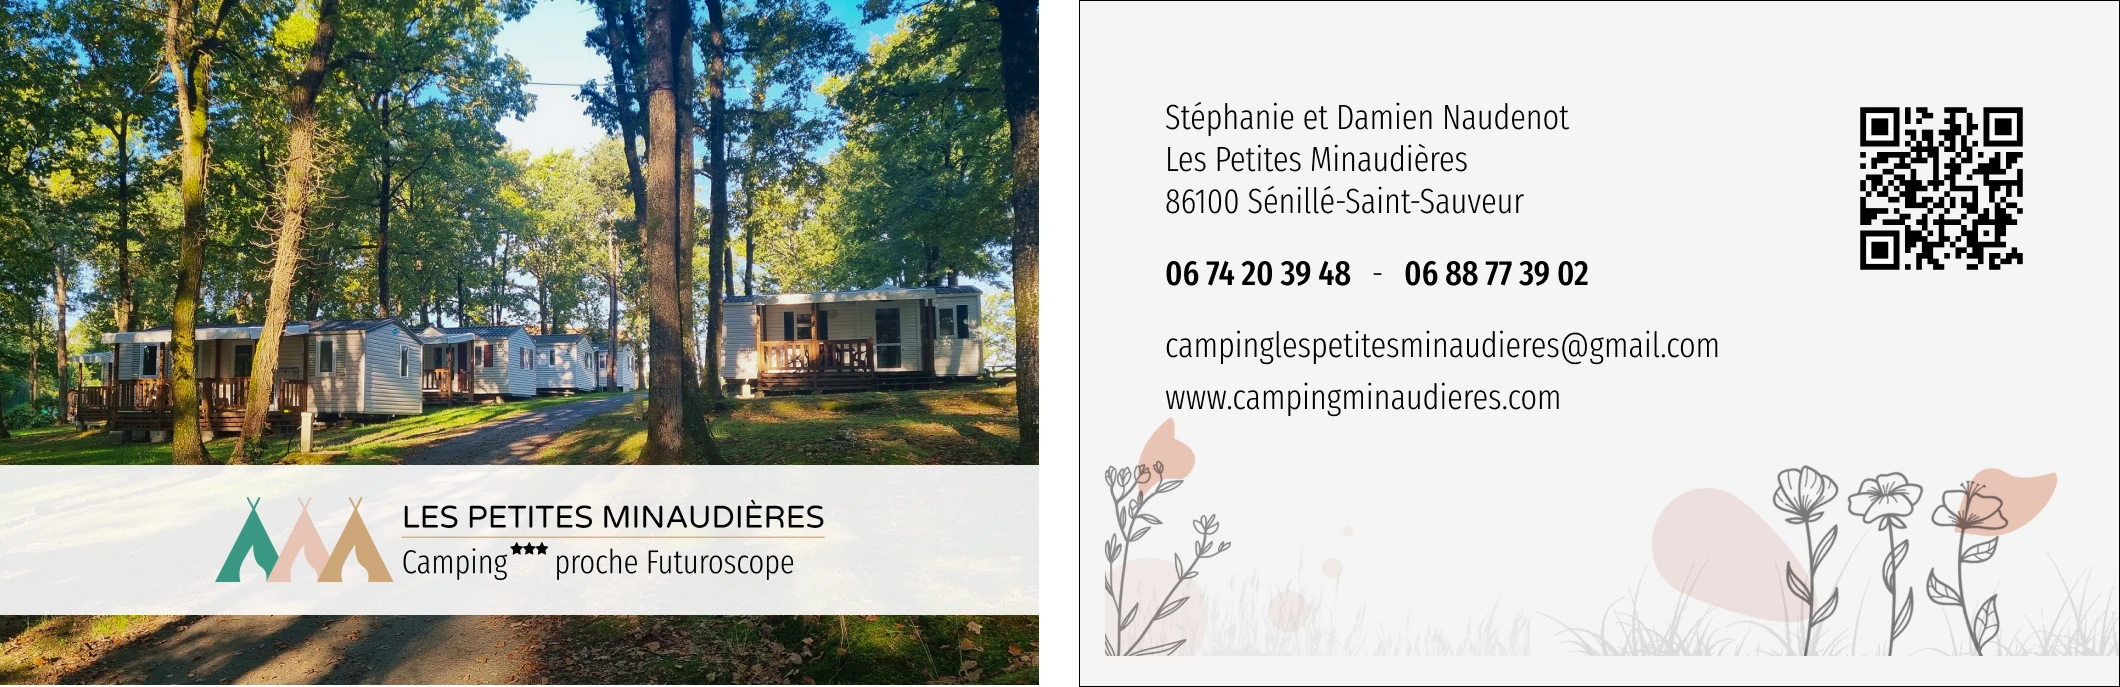
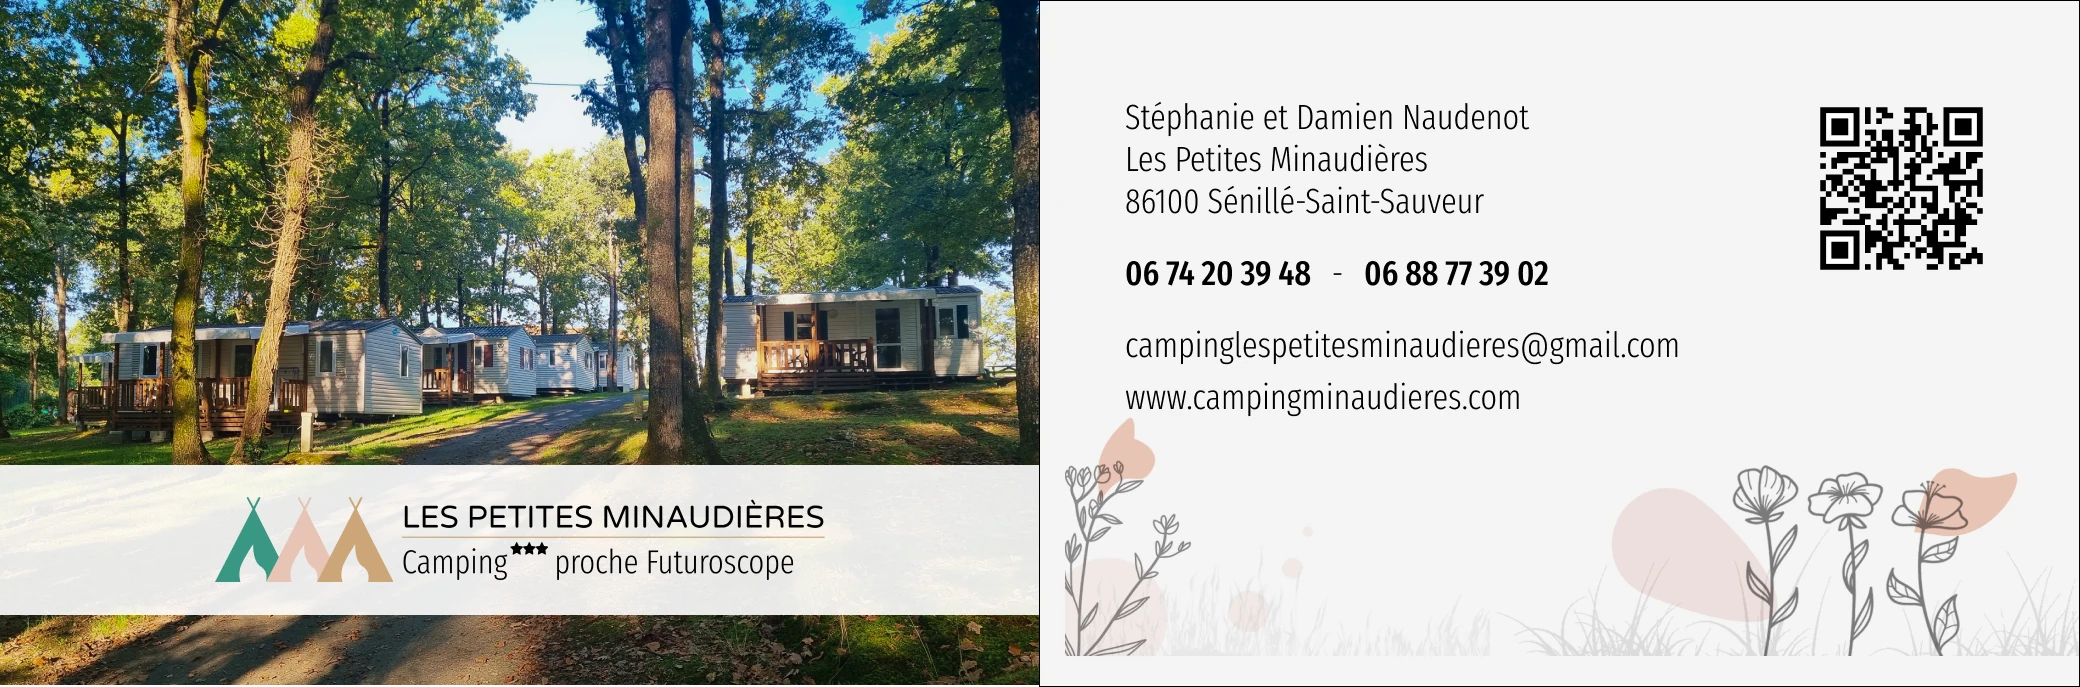
Camping : recto et verso de la carte collés
Claude-Session: https://claude.ai/code/session_01THwdntjNiSuDEHoKbgxniL

diff --git a/projets/camping-minaudieres/index.html b/projets/camping-minaudieres/index.html
@@ -323,7 +323,7 @@
           <img src="../../assets/img/camping/devis.webp" alt="Modèle de devis de location" width="293" height="414" loading="lazy">
         </div>
         <div class="st-supports2">
-          <figure class="st-shot"><img src="../../assets/img/camping/carte-visite.webp" alt="Carte de visite du camping, recto avec photo et logo, verso avec coordonnées et QR code" width="2120" height="687" loading="lazy"><figcaption><strong>Carte de visite</strong>Recto · verso</figcaption></figure>
+          <figure class="st-shot"><img src="../../assets/img/camping/carte-visite.webp" alt="Carte de visite du camping, recto avec photo et logo, verso avec coordonnées et QR code" width="2080" height="687" loading="lazy"><figcaption><strong>Carte de visite</strong>Recto · verso</figcaption></figure>
           <figure class="st-shot"><img src="../../assets/img/camping/email.webp" alt="E-mail automatique de confirmation de réservation, avec récapitulatif du séjour et bouton vers le site" width="579" height="459" loading="lazy"><figcaption><strong>E-mail de confirmation</strong>Envoyé automatiquement après chaque réservation</figcaption></figure>
         </div>
       </div>
